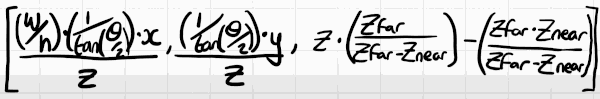
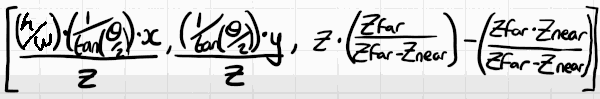
revise

Changed region(s): [[0.03, 0.1212, 0.09, 0.5455]]

diff --git a/3d_1.md b/3d_1.md
@@ -1,7 +1,5 @@
 # 3D Engine , Part 1
 
-Q: what is exactly aspect ratio ?  w/h or h/w?
-
 
 ##  Triangles & Projection
 
@@ -62,25 +60,22 @@ We may as well also attempt to normalize z, and the reason for this might not be
 Choosing a scaling coefficient for the z axis is somewhat more simpler. The z axis going forward into the distance.  The furthest distance of objects that we can see will be defined by this plane at the back, which is *z far*.  You might assume that means where the screen is at the front would be 0, but that is not quite the case. But the player's head isn't resting against the screen, there is a small distance.  I'm going to call it *z near*, which is the distance represented from the player's head to the front of the screen.
 
 - ![](imgs/3d_6.png)
+
+```
+z' = (z-Znear)/(Zfar-Znear)
+```
  
-If i put some imaginary numbers next to this, let's our far plane is at 10, and the near plane is at 1,  to work out where the position of a point in that plane really is , we need first scale it to a normalized system, here we take out point , and divide it by 10-1=9, that will give us a point between 0 and 1.
-
-- ![](imgs/3d_7.png)
-
-But we've decided that our far plane should be 10, so we need to scale it back up again. This is implying that we have, for our z-axis scale factor , something that looks like this :  ZFar / ( ZFar - ZNear ).  But this still leaves us with a bit of a discrepancy 
-
-- ![](imgs/3d_8.png)
-
-So we'll also need to offset our transformed point by this discrepancy scaled too. Fortunately we know where that discrepancy is. So we can take our equation , and simply multiply it by *z-near*  
+But we've decided that our far plane should be 10, so we need to scale it back up again. 
 
 ```
-z' = z· (ZFar / (ZFar - ZNear) ) - ZNear·(ZFar / ( ZFar - ZNear ))
+z' = (z-Znear)· Zfar/(Zfar-Znear)
+   = z· (ZFar / (ZFar - ZNear) ) - ZNear·(ZFar / ( ZFar - ZNear ))
 ```
+
 
 So now if we look at our initial coordinates and look at the final transformed coordinate, it is a bit complicated and not even quite finished yet.
 
 - ![](imgs/3d_9.png)
-    - is it wrong ? shouldn't it be h/w ?
 
 Intuitively we know that when things are further away they appear to move less so this implies that a change in the x-coordinate is somehow related to the z-depth, inversely proportional x'=x/z.  And this is analogous for y , y'=y/z.
 
@@ -134,4 +129,10 @@ You can really treat it like a black box this projection matrix will work for al
 - ![](imgs/3d_13.png)
 
 
+## Recap: to construct a projection matrix
+
+1. aspect ratio: h/w 
+2. field of view:  1/tan(θ/2)
+3. normalize z: (z-Znear)· Zfar/(Zfar-Znear)
+4. x,y showhow related to z:  x'=x/z
 
